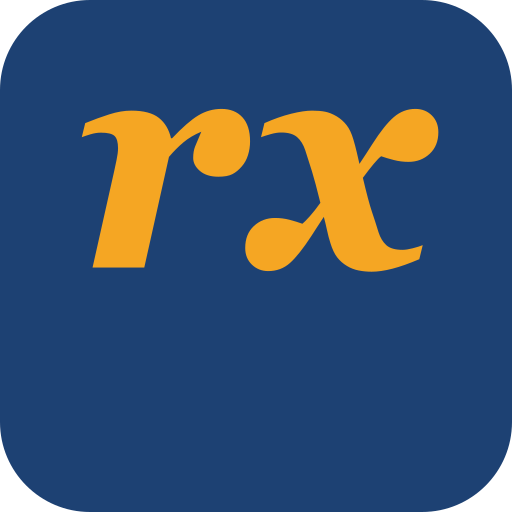
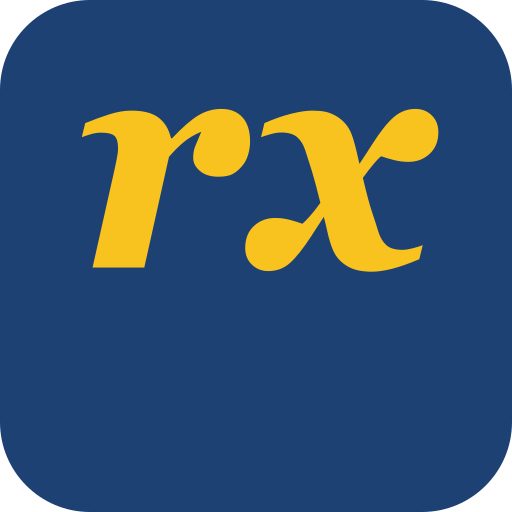
design: shift accent from orange-amber to warm gold
User feedback: the italic-rx in the logo was reading as orange, not gold.
Root cause: HSL hue at 30-35° sits in the orange-amber band of the spectrum.
Gold lives at hue 42-48°.

Token shift (hue only, saturation/lightness preserved):
- --accent 35 95% 55% (#F5A623 marigold) → 45 95% 55% (#F9C31F warm gold)
- --accent-strong 30 88% 33% (#9D5208 burnt amber) → 45 85% 28% (#84660B dark gold)
  L dropped 5pts to compensate for yellower hue's higher luminance — still
  passes WCAG AA on cool white (5.41:1) and cool light gray (4.95:1).

Affects the logo italic-rx, all eyebrow text, blog category labels, CTA
button fills, footer band background, and the Speakable answer-box border.
Favicon regenerated with the new gold so the icon stays in lock.

Changed region(s): [[0.1562, 0.1875, 0.875, 0.5312]]

diff --git a/src/styles/globals.css b/src/styles/globals.css
@@ -7,10 +7,10 @@
     /* Palette — Gold/Blue/White: ocean blue + bright marigold (with dark-amber text sibling) on cool white */
     --primary: 215 60% 28%;          /* #1D4173 ocean blue */
     --primary-foreground: 210 20% 99%;
-    --accent: 35 95% 55%;            /* #F5A623 bright marigold — solid fills, dark-surface text */
-    --accent-foreground: 220 25% 14%; /* #1B2233 dark navy — text on bright amber buttons */
-    --accent-strong: 30 88% 33%;     /* #9D5208 dark amber — text on light surfaces, passes WCAG AA */
-    --accent-strong-foreground: 210 20% 99%; /* cool white — text on dark-amber fills (rare) */
+    --accent: 45 95% 55%;            /* #F9C31F warm gold — solid fills, dark-surface text */
+    --accent-foreground: 220 25% 14%; /* #1B2233 dark navy — text on bright gold buttons */
+    --accent-strong: 45 85% 28%;     /* #84660B dark gold — text on light surfaces, passes WCAG AA */
+    --accent-strong-foreground: 210 20% 99%; /* cool white — text on dark-gold fills (rare) */
     --surface: 210 20% 99%;          /* #FBFCFD cool white */
     --surface-alt: 220 15% 96%;      /* #F0F3F6 cool light gray — banded sections */
     --text: 220 25% 14%;             /* #1B2233 dark text */

diff --git a/docs/HANDOFF.md b/docs/HANDOFF.md
@@ -45,8 +45,8 @@ HSL tokens in `src/styles/globals.css`. After comparing 12 preview directions th
 | Token | HSL | Hex | Use |
 |---|---|---|---|
 | `--primary` | `215 60% 28%` | `#1D4173` | ocean blue — headlines, primary buttons, footer band, "trt" in logo |
-| `--accent` | `35 95% 55%` | `#F5A623` | bright marigold — **solid fills only** (CTA backgrounds, footer band, dividers, borders) and amber **text on DARK surfaces** (Footer link hover, FooterCTABand italic emphasis, Logo italic-rx on `tone="on-dark"`). Never use as text on cream/light surfaces — `text-accent-strong` is the token for that. |
-| `--accent-strong` | `30 88% 33%` | `#9D5208` | dark amber — **text-only token for amber text on LIGHT surfaces**. Used by `.eyebrow`, blog category labels, Logo italic-rx on `tone="on-light"`, QuickAnswerBox label. Passes WCAG AA on both `--surface` (5.41:1) and `--surface-alt` (4.86:1). |
+| `--accent` | `45 95% 55%` | `#F9C31F` | warm gold — **solid fills only** (CTA backgrounds, footer band, dividers, borders) and gold **text on DARK surfaces** (Footer link hover, FooterCTABand italic emphasis, Logo italic-rx on `tone="on-dark"` — passes 5.49:1 on ocean blue). Never use as text on cream/light surfaces — `text-accent-strong` is the token for that. |
+| `--accent-strong` | `45 85% 28%` | `#84660B` | dark gold — **text-only token for gold text on LIGHT surfaces**. Used by `.eyebrow`, blog category labels, Logo italic-rx on `tone="on-light"`, QuickAnswerBox label. Passes WCAG AA on both `--surface` (5.41:1) and `--surface-alt` (4.95:1). |
 | `--surface` | `210 20% 99%` | `#FBFCFD` | cool white — default page background |
 | `--surface-alt` | `220 15% 96%` | `#F0F3F6` | cool light gray — banded sections |
 | `--text` | `220 25% 14%` | `#1B2233` | dark text body |
